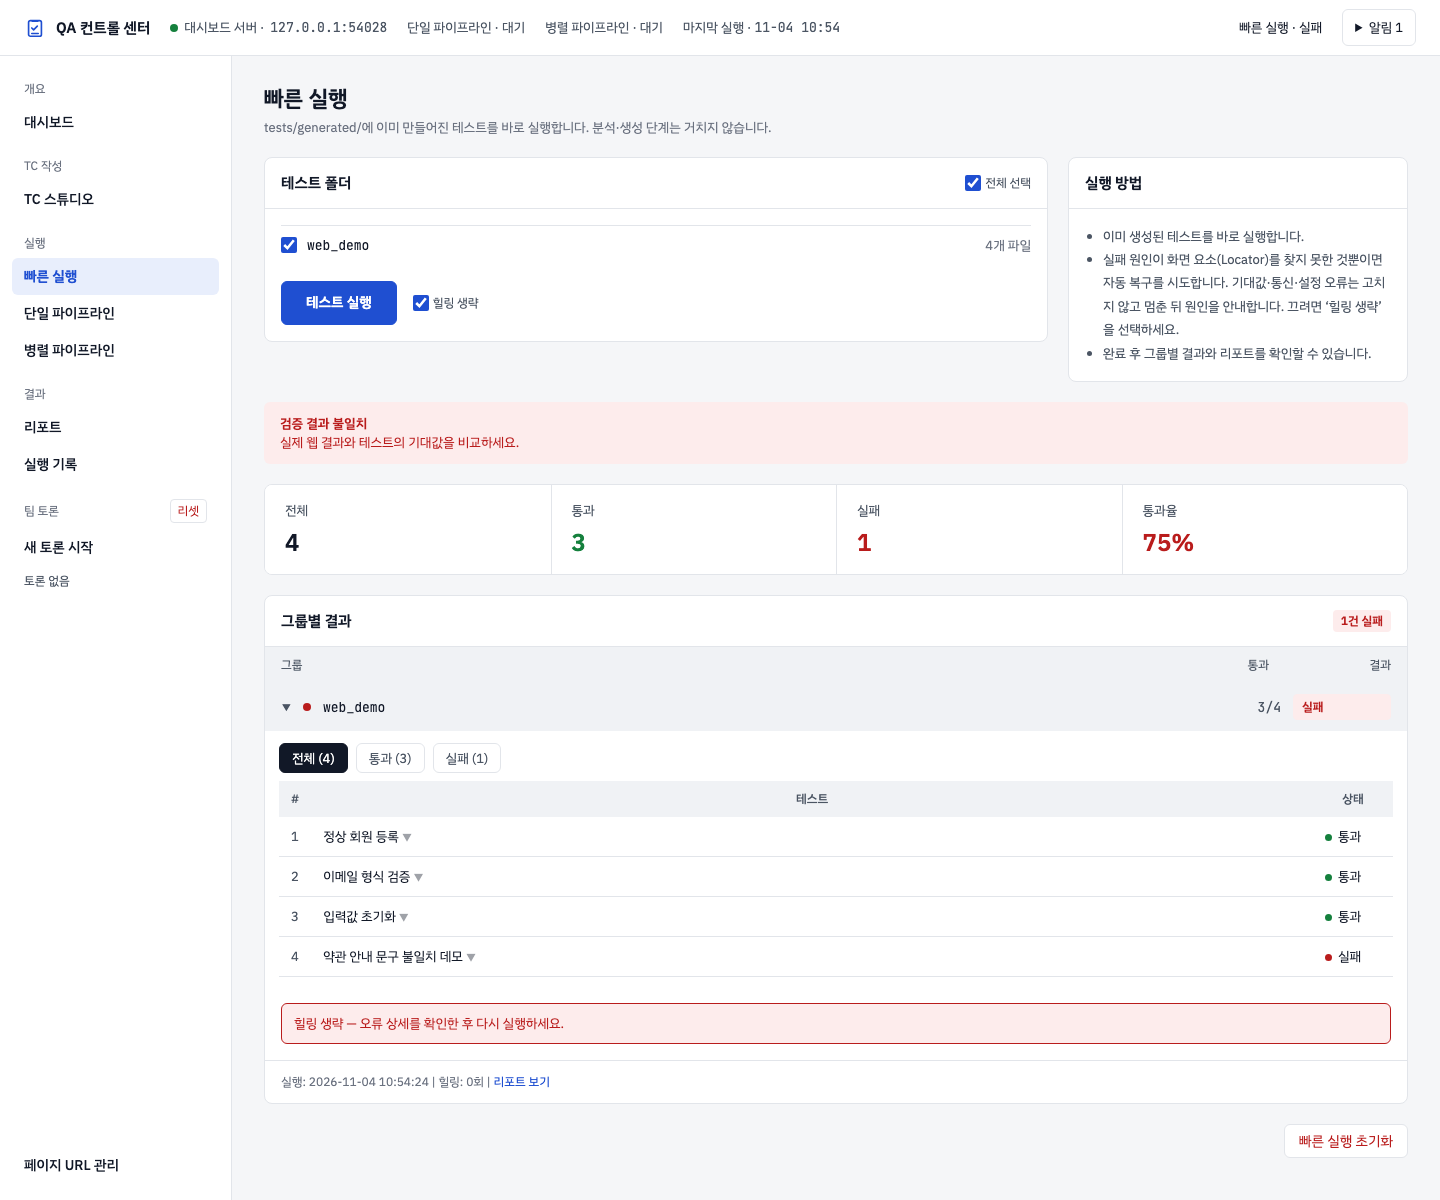
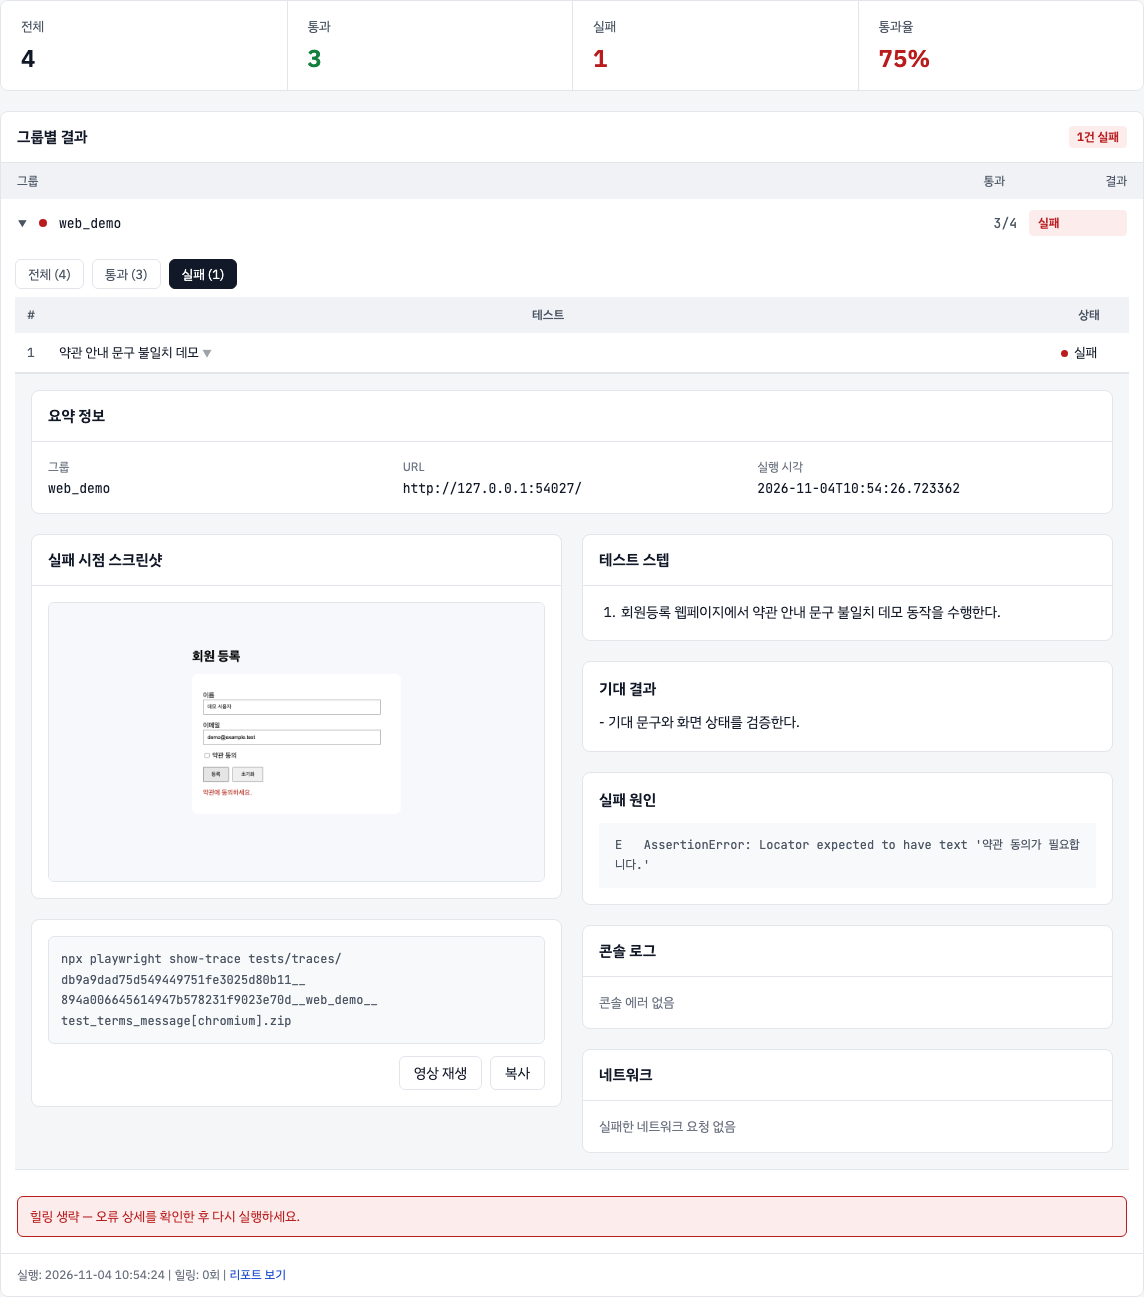
docs: show expanded failure evidence in quick run screenshot

diff --git a/doc/images/readme/README.md b/doc/images/readme/README.md
@@ -28,7 +28,7 @@ Playwright Chromium, 배율 1로 촬영했습니다. README 축소 시 가독성
 |---|---|
 | [dashboard.png](dashboard.png) | 실제 실행 통계·추이 · 1440 × 1000 |
 | [tc-studio.png](tc-studio.png) | 웹 TC 4건 · 1920 × 820 화면에서 트리를 숨기고 TC 스튜디오 영역만 촬영 |
-| [quick-run.png](quick-run.png) | 실제 3/4 통과 결과와 펼친 케이스 목록 · 1440 × 1200 |
+| [quick-run.png](quick-run.png) | 실제 3/4 통과 결과 · 실패 필터와 케이스 상세를 펼친 결과 영역만 촬영 · 1144 × 1297 |
 | [pipeline.png](pipeline.png) | URL·TC를 지정한 실행 준비 화면 · 1440 × 720, 파이프라인 실행 완료 화면은 아님 |
 | [reports.png](reports.png) | 실제 생성된 HTML 리포트 미리보기 · 1440 × 1000 |
 | [failure-detail.png](failure-detail.png) | 실제 실패 TC의 스크린샷·영상 증거 · 폭 1100, 전체 페이지 |

diff --git a/README.md b/README.md
@@ -127,9 +127,9 @@ source .venv/bin/activate
 
 ### 파이프라인·빠른 실행
 
-![빠른 실행의 실제 결과와 케이스 목록](doc/images/readme/quick-run.png)
+![빠른 실행에서 실패 케이스를 펼친 실제 결과](doc/images/readme/quick-run.png)
 
-*실제 Chromium 실행 결과: 4건 중 3건 통과·1건 실패입니다. 실패는 오류 분석 화면을 보여 주기 위한 의도적 기대 문구 불일치이며, 자동 복구는 생략했습니다.*
+*빠른 실행의 결과 영역입니다. 전체 4건 중 3건 통과·1건 실패이며, **실패 (1)** 필터에서 해당 케이스를 펼쳐 실제 스크린샷과 실패 원인을 확인한 상태입니다. 의도적 기대 문구 불일치 데모이며 자동 복구는 생략했습니다.*
 
 <details>
 <summary>처음 실행할 때와 생성된 코드를 다시 실행할 때</summary>
